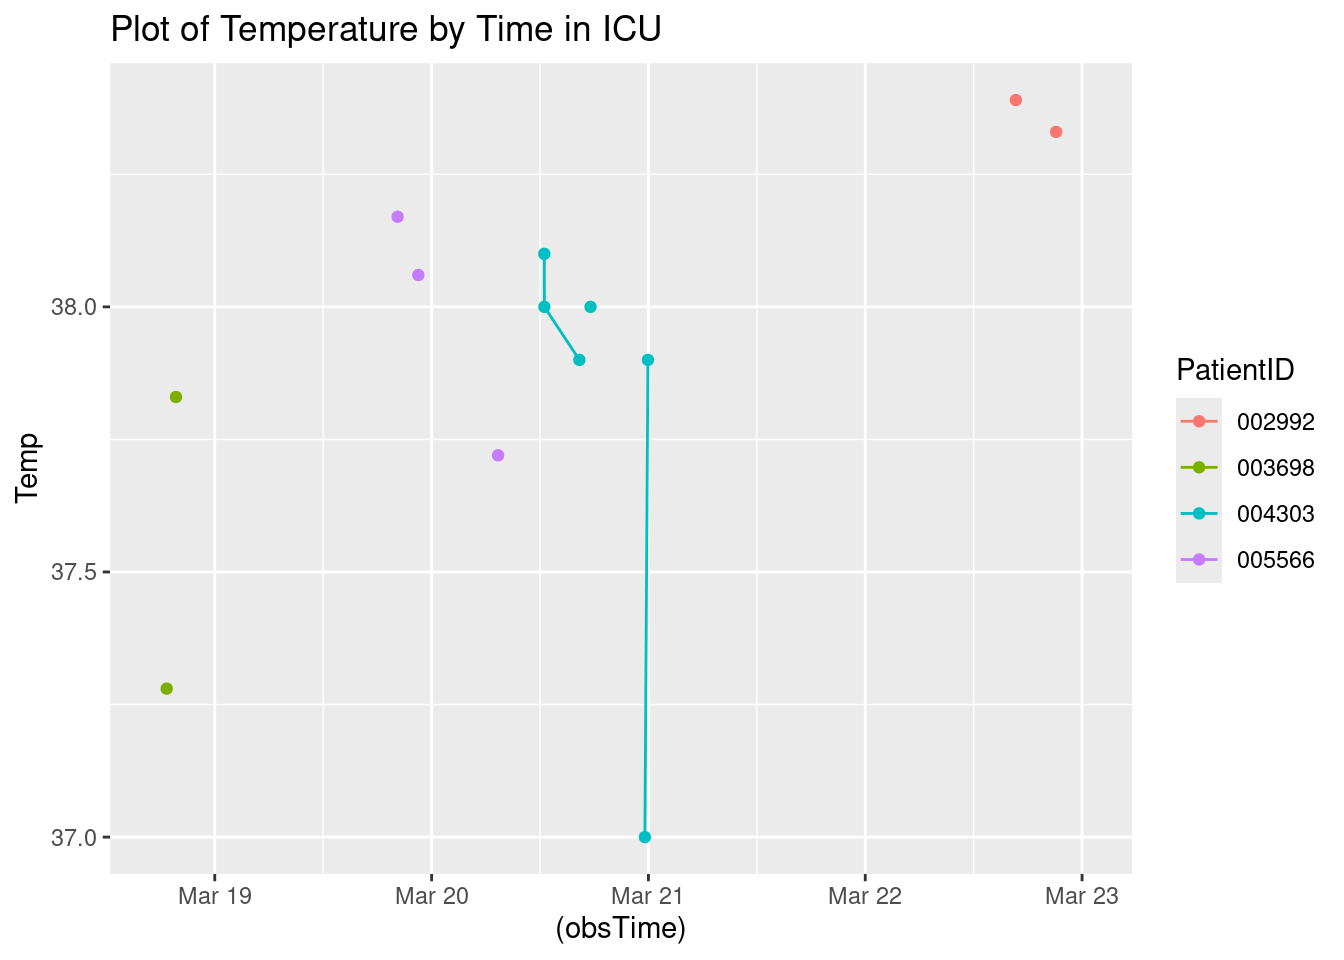
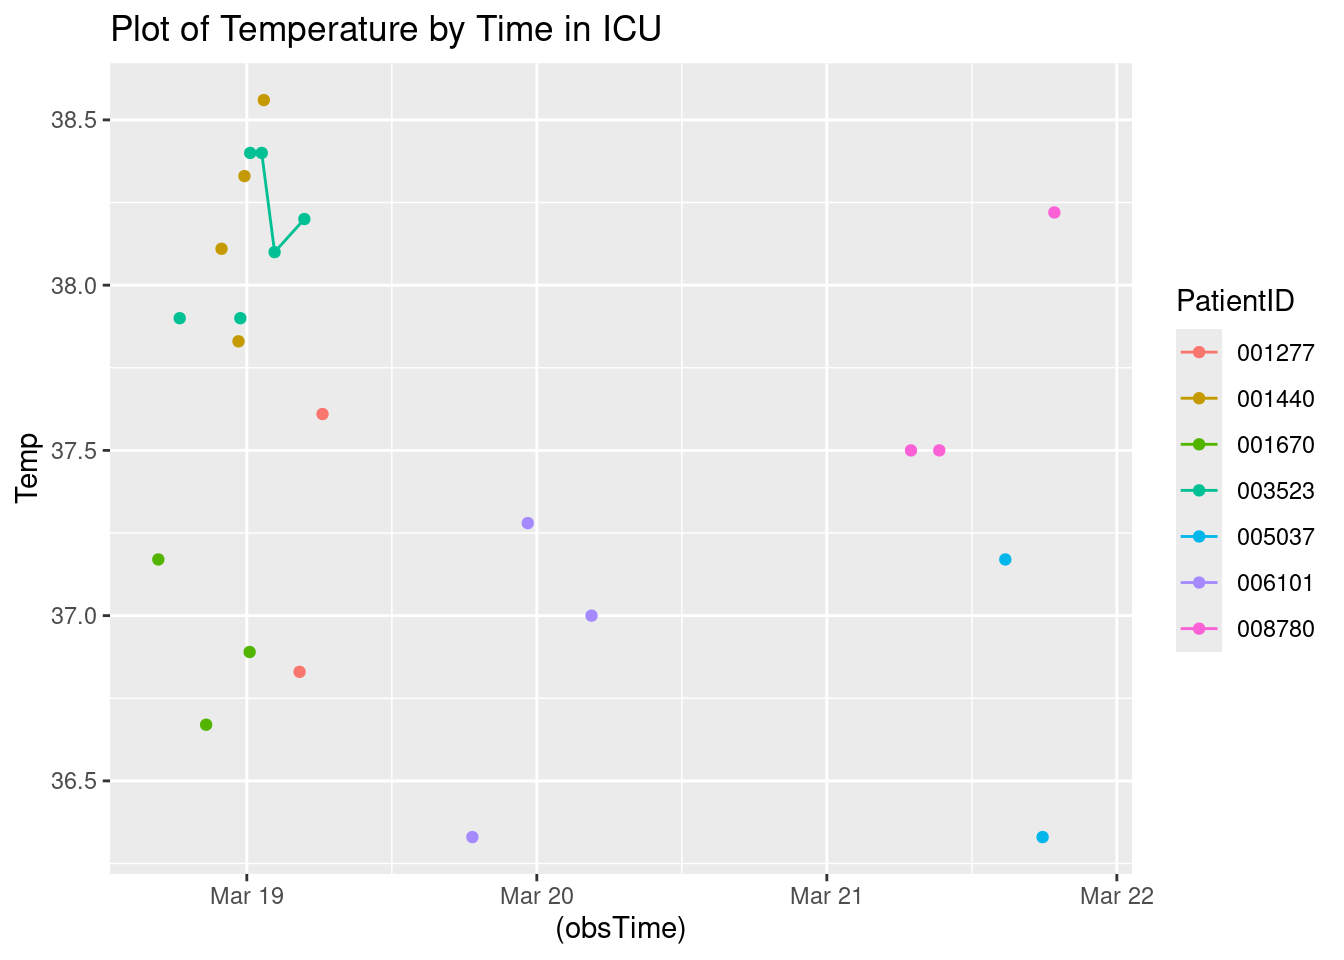
Updated report

diff --git a/A7.html b/A7.html
@@ -116,7 +116,7 @@ pre > code.sourceCode > span > a:first-child::before { text-decoration: underlin
 </div>
 <div class="sourceCode cell-code" id="cb4"><pre class="sourceCode r code-with-copy"><code class="sourceCode r"><span id="cb4-1"><a href="#cb4-1" aria-hidden="true" tabindex="-1"></a><span class="fu">toc</span>()</span></code><button title="Copy to Clipboard" class="code-copy-button"><i class="bi"></i></button></pre></div>
 <div class="cell-output cell-output-stdout">
-<pre><code>24.393 sec elapsed</code></pre>
+<pre><code>25.995 sec elapsed</code></pre>
 </div>
 <div class="sourceCode cell-code" id="cb6"><pre class="sourceCode r code-with-copy"><code class="sourceCode r"><span id="cb6-1"><a href="#cb6-1" aria-hidden="true" tabindex="-1"></a><span class="fu">tic</span>()</span>
 <span id="cb6-2"><a href="#cb6-2" aria-hidden="true" tabindex="-1"></a>test1<span class="ot">=</span><span class="fu">makeSepsisDataset</span>(<span class="at">n=</span><span class="dv">50</span>,<span class="at">read_fn =</span> <span class="st">"read_delim"</span>)</span>
@@ -126,7 +126,7 @@ pre > code.sourceCode > span > a:first-child::before { text-decoration: underlin
 </div>
 <div class="sourceCode cell-code" id="cb8"><pre class="sourceCode r code-with-copy"><code class="sourceCode r"><span id="cb8-1"><a href="#cb8-1" aria-hidden="true" tabindex="-1"></a><span class="fu">toc</span>()</span></code><button title="Copy to Clipboard" class="code-copy-button"><i class="bi"></i></button></pre></div>
 <div class="cell-output cell-output-stdout">
-<pre><code>20.409 sec elapsed</code></pre>
+<pre><code>20.244 sec elapsed</code></pre>
 </div>
 <div class="sourceCode cell-code" id="cb10"><pre class="sourceCode r code-with-copy"><code class="sourceCode r"><span id="cb10-1"><a href="#cb10-1" aria-hidden="true" tabindex="-1"></a><span class="co"># n=100</span></span>
 <span id="cb10-2"><a href="#cb10-2" aria-hidden="true" tabindex="-1"></a><span class="fu">tic</span>()</span>
@@ -137,7 +137,7 @@ pre > code.sourceCode > span > a:first-child::before { text-decoration: underlin
 </div>
 <div class="sourceCode cell-code" id="cb12"><pre class="sourceCode r code-with-copy"><code class="sourceCode r"><span id="cb12-1"><a href="#cb12-1" aria-hidden="true" tabindex="-1"></a><span class="fu">toc</span>()</span></code><button title="Copy to Clipboard" class="code-copy-button"><i class="bi"></i></button></pre></div>
 <div class="cell-output cell-output-stdout">
-<pre><code>48.606 sec elapsed</code></pre>
+<pre><code>48.255 sec elapsed</code></pre>
 </div>
 <div class="sourceCode cell-code" id="cb14"><pre class="sourceCode r code-with-copy"><code class="sourceCode r"><span id="cb14-1"><a href="#cb14-1" aria-hidden="true" tabindex="-1"></a><span class="fu">tic</span>()</span>
 <span id="cb14-2"><a href="#cb14-2" aria-hidden="true" tabindex="-1"></a>test1<span class="ot">=</span><span class="fu">makeSepsisDataset</span>(<span class="at">n=</span><span class="dv">100</span>,<span class="at">read_fn =</span> <span class="st">"read_delim"</span>)</span>
@@ -147,7 +147,7 @@ pre > code.sourceCode > span > a:first-child::before { text-decoration: underlin
 </div>
 <div class="sourceCode cell-code" id="cb16"><pre class="sourceCode r code-with-copy"><code class="sourceCode r"><span id="cb16-1"><a href="#cb16-1" aria-hidden="true" tabindex="-1"></a><span class="fu">toc</span>()</span></code><button title="Copy to Clipboard" class="code-copy-button"><i class="bi"></i></button></pre></div>
 <div class="cell-output cell-output-stdout">
-<pre><code>40.041 sec elapsed</code></pre>
+<pre><code>40.566 sec elapsed</code></pre>
 </div>
 <div class="sourceCode cell-code" id="cb18"><pre class="sourceCode r code-with-copy"><code class="sourceCode r"><span id="cb18-1"><a href="#cb18-1" aria-hidden="true" tabindex="-1"></a><span class="co"># n=500</span></span>
 <span id="cb18-2"><a href="#cb18-2" aria-hidden="true" tabindex="-1"></a><span class="fu">tic</span>()</span>
@@ -158,7 +158,7 @@ pre > code.sourceCode > span > a:first-child::before { text-decoration: underlin
 </div>
 <div class="sourceCode cell-code" id="cb20"><pre class="sourceCode r code-with-copy"><code class="sourceCode r"><span id="cb20-1"><a href="#cb20-1" aria-hidden="true" tabindex="-1"></a><span class="fu">toc</span>()</span></code><button title="Copy to Clipboard" class="code-copy-button"><i class="bi"></i></button></pre></div>
 <div class="cell-output cell-output-stdout">
-<pre><code>236.37 sec elapsed</code></pre>
+<pre><code>244.755 sec elapsed</code></pre>
 </div>
 <div class="sourceCode cell-code" id="cb22"><pre class="sourceCode r code-with-copy"><code class="sourceCode r"><span id="cb22-1"><a href="#cb22-1" aria-hidden="true" tabindex="-1"></a><span class="fu">tic</span>()</span>
 <span id="cb22-2"><a href="#cb22-2" aria-hidden="true" tabindex="-1"></a>test1<span class="ot">=</span><span class="fu">makeSepsisDataset</span>(<span class="at">n=</span><span class="dv">500</span>,<span class="at">read_fn =</span> <span class="st">"read_delim"</span>)</span>
@@ -168,7 +168,7 @@ pre > code.sourceCode > span > a:first-child::before { text-decoration: underlin
 </div>
 <div class="sourceCode cell-code" id="cb24"><pre class="sourceCode r code-with-copy"><code class="sourceCode r"><span id="cb24-1"><a href="#cb24-1" aria-hidden="true" tabindex="-1"></a><span class="fu">toc</span>()</span></code><button title="Copy to Clipboard" class="code-copy-button"><i class="bi"></i></button></pre></div>
 <div class="cell-output cell-output-stdout">
-<pre><code>200.544 sec elapsed</code></pre>
+<pre><code>205.669 sec elapsed</code></pre>
 </div>
 </div>
 <p><strong>Task 3</strong></p>
@@ -194,7 +194,7 @@ pre > code.sourceCode > span > a:first-child::before { text-decoration: underlin
 <span id="cb28-4"><a href="#cb28-4" aria-hidden="true" tabindex="-1"></a></span>
 <span id="cb28-5"><a href="#cb28-5" aria-hidden="true" tabindex="-1"></a><span class="fu">Sys.time</span>()</span></code><button title="Copy to Clipboard" class="code-copy-button"><i class="bi"></i></button></pre></div>
 <div class="cell-output cell-output-stdout">
-<pre><code>[1] "2024-03-18 15:27:02 UTC"</code></pre>
+<pre><code>[1] "2024-03-18 16:31:43 UTC"</code></pre>
 </div>
 <div class="sourceCode cell-code" id="cb30"><pre class="sourceCode r code-with-copy"><code class="sourceCode r"><span id="cb30-1"><a href="#cb30-1" aria-hidden="true" tabindex="-1"></a>dfnew <span class="ot">&lt;-</span> df <span class="sc">%&gt;%</span></span>
 <span id="cb30-2"><a href="#cb30-2" aria-hidden="true" tabindex="-1"></a>  <span class="fu">subset</span>(SepsisLabel<span class="sc">==</span><span class="dv">1</span>)</span>
@@ -223,40 +223,67 @@ pre > code.sourceCode > span > a:first-child::before { text-decoration: underlin
 </thead>
 <tbody>
 <tr class="odd">
-<td style="text-align: left;">002992</td>
-<td style="text-align: right;">105</td>
-<td style="text-align: right;">101</td>
+<td style="text-align: left;">001277</td>
+<td style="text-align: right;">16</td>
 <td style="text-align: right;">NA</td>
-<td style="text-align: right;">33</td>
+<td style="text-align: right;">NA</td>
+<td style="text-align: right;">NA</td>
 <td style="text-align: right;">1</td>
-<td style="text-align: left;">2024-03-23 00:24:42</td>
+<td style="text-align: left;">2024-03-19 08:10:08</td>
 </tr>
 <tr class="even">
-<td style="text-align: left;">003698</td>
-<td style="text-align: right;">11</td>
-<td style="text-align: right;">88</td>
-<td style="text-align: right;">NA</td>
-<td style="text-align: right;">10</td>
+<td style="text-align: left;">001440</td>
+<td style="text-align: right;">9</td>
+<td style="text-align: right;">102</td>
+<td style="text-align: right;">38.56</td>
+<td style="text-align: right;">30</td>
 <td style="text-align: right;">1</td>
-<td style="text-align: left;">2024-03-19 00:14:45</td>
+<td style="text-align: left;">2024-03-19 01:24:29</td>
 </tr>
 <tr class="odd">
-<td style="text-align: left;">004303</td>
-<td style="text-align: right;">57</td>
-<td style="text-align: right;">105</td>
-<td style="text-align: right;">NA</td>
-<td style="text-align: right;">16</td>
+<td style="text-align: left;">001670</td>
+<td style="text-align: right;">9</td>
+<td style="text-align: right;">85</td>
+<td style="text-align: right;">36.89</td>
+<td style="text-align: right;">49</td>
 <td style="text-align: right;">1</td>
-<td style="text-align: left;">2024-03-21 00:16:33</td>
+<td style="text-align: left;">2024-03-19 00:14:02</td>
 </tr>
 <tr class="even">
-<td style="text-align: left;">005566</td>
-<td style="text-align: right;">41</td>
-<td style="text-align: right;">105</td>
-<td style="text-align: right;">NA</td>
-<td style="text-align: right;">33</td>
+<td style="text-align: left;">003523</td>
+<td style="text-align: right;">13</td>
+<td style="text-align: right;">81</td>
+<td style="text-align: right;">38.20</td>
+<td style="text-align: right;">19</td>
 <td style="text-align: right;">1</td>
-<td style="text-align: left;">2024-03-20 07:41:10</td>
+<td style="text-align: left;">2024-03-19 04:45:39</td>
+</tr>
+<tr class="odd">
+<td style="text-align: left;">005037</td>
+<td style="text-align: right;">77</td>
+<td style="text-align: right;">61</td>
+<td style="text-align: right;">NA</td>
+<td style="text-align: right;">22</td>
+<td style="text-align: right;">1</td>
+<td style="text-align: left;">2024-03-21 21:25:46</td>
+</tr>
+<tr class="even">
+<td style="text-align: left;">006101</td>
+<td style="text-align: right;">36</td>
+<td style="text-align: right;">71</td>
+<td style="text-align: right;">37.00</td>
+<td style="text-align: right;">16</td>
+<td style="text-align: right;">1</td>
+<td style="text-align: left;">2024-03-20 04:31:35</td>
+</tr>
+<tr class="odd">
+<td style="text-align: left;">008780</td>
+<td style="text-align: right;">75</td>
+<td style="text-align: right;">96</td>
+<td style="text-align: right;">38.22</td>
+<td style="text-align: right;">18</td>
+<td style="text-align: right;">1</td>
+<td style="text-align: left;">2024-03-21 18:49:43</td>
 </tr>
 </tbody>
 </table>
